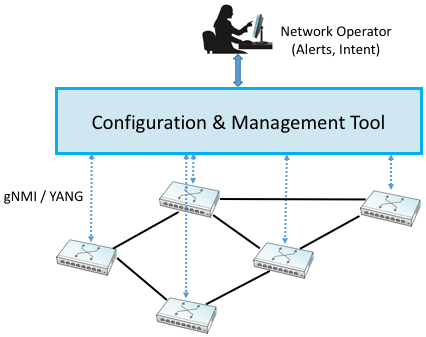
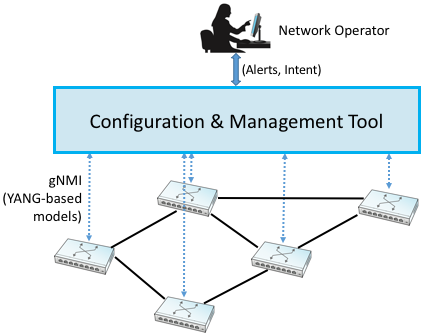
cleaned up gNMI

diff --git a/infrastructure.md b/infrastructure.md
@@ -571,7 +571,9 @@ directives in a globally consistent way.
 	<img src="figures/apps/Slide1.png" width="400px"/>
 	<figcaption>Operator manages a network through a configuration and
 	managment tool, which in turn programmatically interacts with the
-	underlying network devices (e.g., using gNMI and YANG).</figcaption>
+	underlying network devices (e.g., using gNMI as the transport
+	protocol and YANG to specify the schema for the data being
+	exchanged).</figcaption>
 </figure>
 
 [Figure 6](#mgmt) gives a high-level depiction of this idealized
@@ -619,15 +621,37 @@ process.
 
 This is where OpenConfig comes in. It uses YANG as its modeling
 language, but has also established a process for driving the industry
-towards common models). OpenConfig also adopts a ProtoBuf-based
-specification for how a management tool communicates with devices
-using gRPC (which you may recall, runs on top of HTTP). Because we
-don't have enough acroynms, this particular application of gRPC is
-called gNMI (*gRPC Network Management Interface*). As depicted in
+towards common models. OpenConfig is officially agnostic as to the
+RPC mechanism used to communicate with network devices, but one
+approach it is actively pursuing is called gNMI (*gRPC Network
+Management Interface*). As you might guess from its name, gNMI
+uses gRPC, which you may recall, runs on top of HTTP. This means
+gNMI also adopts ProtoBufs as the way it specifies the data actually
+communicated over the HTTP connection. Thus,  as depicted in
 [Figure 6](#mgmt), gNMI is intended as a standard management interface
 for network devices. What's not standardized is the richness of the
 management tool's ability to automate, or the exact form of the
 operator-facing interface. Like any application that is trying to
 serve a need and support more features than the alternatives, there is
 still much room for innovation in tools for network management.
+
+> For completeness, we note that NETCONF is another of the post-SNMP
+> protocols for communicating configuation information to network
+> devices. OpenConfig works with NETCONF, but our reading of the
+> tea leaves points to gNMI as the future.
+
+We conclude by emphasizing that a seachange is underway. While
+listing SNMP and OpenConfig in the title to this section suggests
+they are equivalent, its more accurate to say that each is "what we
+call" these two approaches, but the approaches are quite different.
+On the one hand, SNMP is really just a transport protocol, analogous
+to gNMI in the OpenConfig world. It historically enabled monitoring
+devices, but had virtually nothing to say about configuring devices.
+(The latter has historically required manual intervention.) On the
+other hand, OpenConfig is primarily an effort to define a common set
+of data models for network devices, roughly similar to the role MIB
+plays in the SNMP world, except OpenConfig is (1) model-based, using
+YANG, and (2) equally focused on monitoring and configuation.
+
+
 
